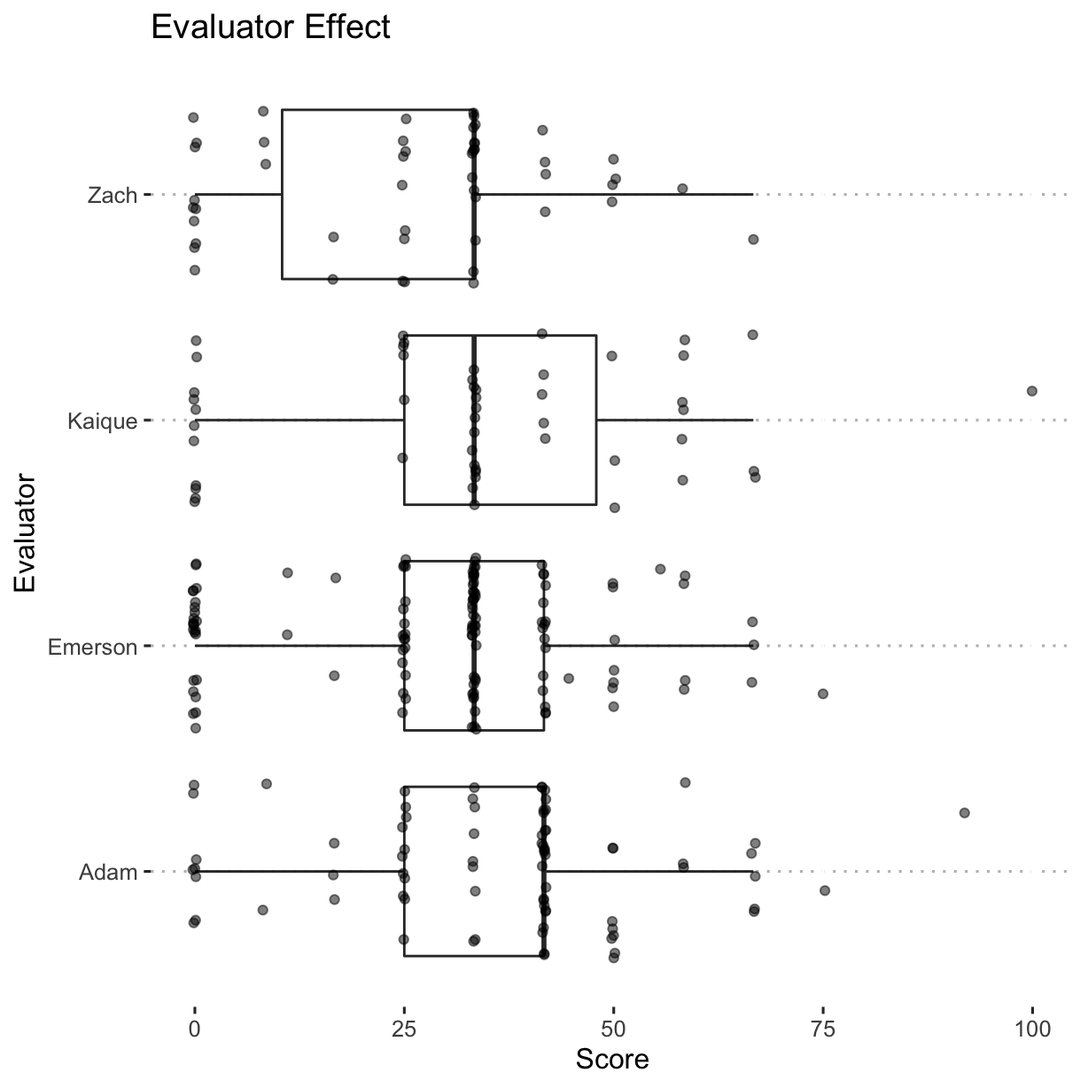
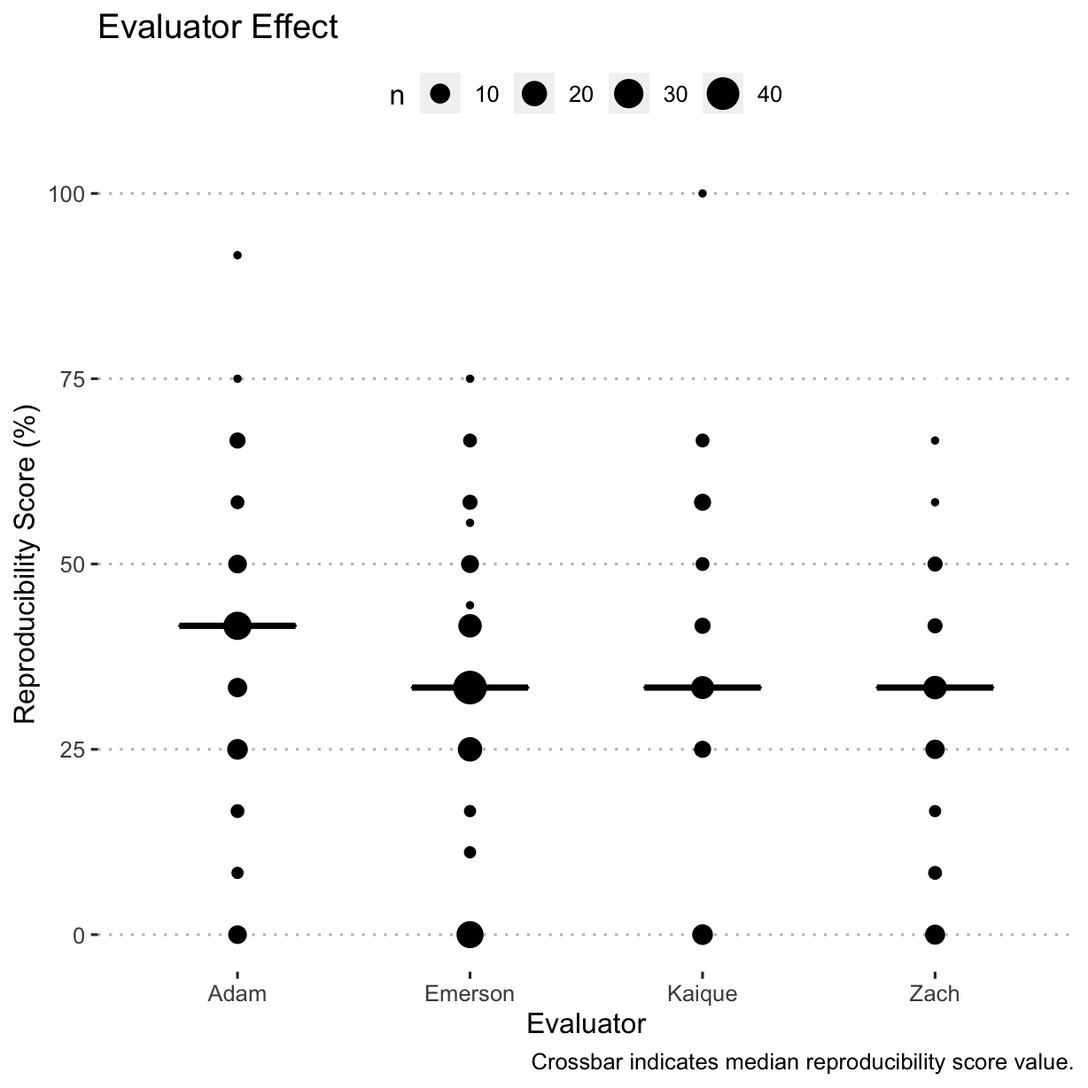
Built site for Reproducibility.in.Plant.Pathology: 0.0.1-1@d06adc3

diff --git a/articles/e_analysis.html b/articles/e_analysis.html
@@ -192,13 +192,20 @@
 <h2 class="hasAnchor">
 <a href="#evaluator-effect-on-reproducibility-score" class="anchor"></a>Evaluator effect on reproducibility score</h2>
 <p>Have a look at whether evaluators had an effect on the scores assigned.</p>
-<div class="sourceCode" id="cb4"><html><body><pre class="r"><span class="fu">ggplot</span>(<span class="no">rrpp</span>, <span class="fu">aes</span>(<span class="kw">x</span> <span class="kw">=</span> <span class="no">reproducibility_score</span>,
-                 <span class="kw">y</span> <span class="kw">=</span> <span class="no">assignee</span>)) +
-  <span class="fu">geom_boxplot</span>(<span class="kw">outlier.shape</span> <span class="kw">=</span> <span class="fl">NA</span>) +
-  <span class="fu">geom_jitter</span>(<span class="kw">width</span> <span class="kw">=</span> <span class="fl">0.25</span>, <span class="kw">alpha</span> <span class="kw">=</span> <span class="fl">0.5</span>) +
+<div class="sourceCode" id="cb4"><html><body><pre class="r"><span class="fu">ggplot</span>(<span class="no">rrpp</span>, <span class="fu">aes</span>(<span class="kw">y</span> <span class="kw">=</span> <span class="no">reproducibility_score</span>,
+                 <span class="kw">x</span> <span class="kw">=</span> <span class="no">assignee</span>)) +
+  <span class="fu">geom_count</span>() +
+  <span class="fu">stat_summary</span>(
+    <span class="kw">fun</span> <span class="kw">=</span> <span class="no">median</span>,
+    <span class="kw">fun.min</span> <span class="kw">=</span> <span class="no">median</span>,
+    <span class="kw">fun.max</span> <span class="kw">=</span> <span class="no">median</span>,
+    <span class="kw">geom</span> <span class="kw">=</span> <span class="st">"crossbar"</span>,
+    <span class="kw">width</span> <span class="kw">=</span> <span class="fl">0.5</span>
+  ) +
   <span class="fu">ggtitle</span>(<span class="st">"Evaluator Effect"</span>) +
-  <span class="fu">ylab</span>(<span class="st">"Evaluator"</span>) +
-  <span class="fu">xlab</span>(<span class="st">"Score"</span>)</pre></body></html></div>
+  <span class="fu">ylab</span>(<span class="st">"Reproducibility Score (%)"</span>) +
+  <span class="fu">xlab</span>(<span class="st">"Evaluator"</span>) +
+  <span class="fu">labs</span>(<span class="kw">caption</span> <span class="kw">=</span> <span class="st">"Crossbar indicates median reproducibility score value."</span>)</pre></body></html></div>
 <p><img src="e_analysis_files/figure-html/unnamed-chunk-3-1.png" width="614.4"></p>
 </div>
 </div>
@@ -223,7 +230,7 @@
   <span class="fu">geom_bar</span>() +
   <span class="fu">ggtitle</span>(<span class="st">"Computational Methods Availability"</span>) +
   <span class="fu">ylab</span>(<span class="st">"Score"</span>) +
-  <span class="fu">labs</span>(<span class="kw">caption</span> <span class="kw">=</span> <span class="st">"NA means that no computational methods were used to generate the data,\ne.g. only PCR results reported with no statistical analsyis"</span>)</pre></body></html></div>
+  <span class="fu">labs</span>(<span class="kw">caption</span> <span class="kw">=</span> <span class="st">"NA means that no computational methods were used to generate the data,\ne.g. only PCR results reported with no statistical analysis"</span>)</pre></body></html></div>
 <p><img src="e_analysis_files/figure-html/unnamed-chunk-5-1.png" width="614.4"></p>
 </div>
 <div id="software-availability" class="section level2">
@@ -259,10 +266,11 @@
   <span class="fu">unnest</span>(<span class="no">software_used</span>) <span class="kw">%&gt;%</span>
   <span class="fu"><a href="https://rdrr.io/pkg/ggpubr/man/reexports.html">mutate</a></span>(<span class="kw">software_used</span> <span class="kw">=</span> <span class="fu"><a href="https://rdrr.io/r/base/trimws.html">trimws</a></span>(<span class="no">software_used</span>)) <span class="kw">%&gt;%</span>
   <span class="fu"><a href="https://rdrr.io/pkg/ggpubr/man/reexports.html">mutate</a></span>(<span class="kw">software_used</span> <span class="kw">=</span> <span class="fu"><a href="https://rdrr.io/r/base/chartr.html">toupper</a></span>(<span class="no">software_used</span>)) <span class="co"># convert all to uppercase to standardise</span></pre></body></html></div>
-<p>Now graph the top ten softwares.</p>
+<p>Now graph the top ten software packages used.</p>
 <div class="sourceCode" id="cb10"><html><body><pre class="r"><span class="no">tab</span> <span class="kw">&lt;-</span> <span class="fu"><a href="https://rdrr.io/r/base/table.html">table</a></span>(<span class="no">rrpp_software</span>$<span class="no">software_used</span>)
 <span class="no">tab_s</span> <span class="kw">&lt;-</span> <span class="fu"><a href="https://rdrr.io/r/base/sort.html">sort</a></span>(<span class="no">tab</span>)
-<span class="no">top10</span> <span class="kw">&lt;-</span> <span class="fu"><a href="https://rdrr.io/r/utils/head.html">tail</a></span>(<span class="fu"><a href="https://rdrr.io/r/base/names.html">names</a></span>(<span class="no">tab_s</span>), <span class="fl">14</span>) <span class="co"># checking the table, there are several ties</span>
+<span class="no">top10</span> <span class="kw">&lt;-</span>
+  <span class="fu"><a href="https://rdrr.io/r/utils/head.html">tail</a></span>(<span class="fu"><a href="https://rdrr.io/r/base/names.html">names</a></span>(<span class="no">tab_s</span>), <span class="fl">14</span>) <span class="co"># checking the table, there are several ties</span>
 <span class="no">top_software</span> <span class="kw">&lt;-</span> <span class="fu"><a href="https://rdrr.io/r/base/subset.html">subset</a></span>(<span class="no">rrpp_software</span>, <span class="no">software_used</span> <span class="kw">%in%</span> <span class="no">top10</span>)
 <span class="no">top_software</span>$<span class="no">software_used</span> <span class="kw">&lt;-</span> <span class="fu"><a href="https://rdrr.io/r/base/factor.html">factor</a></span>(<span class="no">top_software</span>$<span class="no">software_used</span>,
                                      <span class="kw">levels</span> <span class="kw">=</span> <span class="fu"><a href="https://rdrr.io/r/base/rev.html">rev</a></span>(<span class="no">top10</span>))
@@ -288,13 +296,20 @@
 <div id="article-class-effect-on-reproducibility-score" class="section level2">
 <h2 class="hasAnchor">
 <a href="#article-class-effect-on-reproducibility-score" class="anchor"></a>Article class effect on reproducibility score</h2>
-<div class="sourceCode" id="cb12"><html><body><pre class="r"><span class="fu">ggplot</span>(<span class="no">rrpp</span>, <span class="fu">aes</span>(<span class="kw">x</span> <span class="kw">=</span> <span class="no">reproducibility_score</span>,
-                 <span class="kw">y</span> <span class="kw">=</span> <span class="no">art_class</span>)) +
-  <span class="fu">geom_boxplot</span>(<span class="kw">outlier.shape</span> <span class="kw">=</span> <span class="fl">NA</span>) +
-  <span class="fu">geom_jitter</span>(<span class="kw">width</span> <span class="kw">=</span> <span class="fl">0.25</span>, <span class="kw">alpha</span> <span class="kw">=</span> <span class="fl">0.5</span>) +
+<div class="sourceCode" id="cb12"><html><body><pre class="r"><span class="fu">ggplot</span>(<span class="no">rrpp</span>, <span class="fu">aes</span>(<span class="kw">y</span> <span class="kw">=</span> <span class="no">reproducibility_score</span>,
+                 <span class="kw">x</span> <span class="kw">=</span> <span class="no">art_class</span>)) +
+  <span class="fu">geom_count</span>() +
+  <span class="fu">stat_summary</span>(
+    <span class="kw">fun</span> <span class="kw">=</span> <span class="no">median</span>,
+    <span class="kw">fun.min</span> <span class="kw">=</span> <span class="no">median</span>,
+    <span class="kw">fun.max</span> <span class="kw">=</span> <span class="no">median</span>,
+    <span class="kw">geom</span> <span class="kw">=</span> <span class="st">"crossbar"</span>,
+    <span class="kw">width</span> <span class="kw">=</span> <span class="fl">0.5</span>
+  ) +
   <span class="fu">ggtitle</span>(<span class="st">"Article Class Effect"</span>) +
-  <span class="fu">ylab</span>(<span class="st">"Class"</span>) +
-  <span class="fu">xlab</span>(<span class="st">"Score"</span>)</pre></body></html></div>
+  <span class="fu">ylab</span>(<span class="st">"Reproducibility Score (%)"</span>) +
+  <span class="fu">xlab</span>(<span class="st">"Class"</span>) +
+  <span class="fu">labs</span>(<span class="kw">caption</span> <span class="kw">=</span> <span class="st">"Crossbar indicates median reproducibility score value."</span>)</pre></body></html></div>
 <p><img src="e_analysis_files/figure-html/unnamed-chunk-11-1.png" width="614.4"></p>
 </div>
 <div id="journal-effect-on-reproducibility-score" class="section level2">
@@ -311,57 +326,149 @@
 <div id="five-year-impact-factor-effect-on-reproducibility-score" class="section level2">
 <h2 class="hasAnchor">
 <a href="#five-year-impact-factor-effect-on-reproducibility-score" class="anchor"></a>Five year impact factor effect on reproducibility score</h2>
-<div class="sourceCode" id="cb14"><html><body><pre class="r"><span class="fu">ggplot</span>(<span class="no">rrpp</span>, <span class="fu">aes</span>(<span class="kw">x</span> <span class="kw">=</span> <span class="no">reproducibility_score</span>,
-                 <span class="kw">y</span> <span class="kw">=</span> <span class="no">IF_5year</span>)) +
+<div class="sourceCode" id="cb14"><html><body><pre class="r"><span class="fu">ggplot</span>(<span class="no">rrpp</span>, <span class="fu">aes</span>(<span class="kw">y</span> <span class="kw">=</span> <span class="no">reproducibility_score</span>,
+                 <span class="kw">x</span> <span class="kw">=</span> <span class="no">IF_5year</span>)) +
   <span class="fu">geom_count</span>() +
+  <span class="fu">geom_smooth</span>() +
   <span class="fu">ggtitle</span>(<span class="st">"Five Year IF Effect"</span>) +
-  <span class="fu">ylab</span>(<span class="st">"Impact Factor"</span>) +
-  <span class="fu">xlab</span>(<span class="st">"Score"</span>)</pre></body></html></div>
+  <span class="fu">ylab</span>(<span class="st">"Score"</span>) +
+  <span class="fu">xlab</span>(<span class="st">"Impact Factor"</span>)</pre></body></html></div>
 <p><img src="e_analysis_files/figure-html/unnamed-chunk-13-1.png" width="614.4"></p>
 </div>
 <div id="journal-open-access-effect-on-reproducibility-score" class="section level2">
 <h2 class="hasAnchor">
 <a href="#journal-open-access-effect-on-reproducibility-score" class="anchor"></a>Journal open access effect on reproducibility score</h2>
-<div class="sourceCode" id="cb15"><html><body><pre class="r"><span class="fu">ggplot</span>(<span class="no">rrpp</span>, <span class="fu">aes</span>(<span class="kw">x</span> <span class="kw">=</span> <span class="no">reproducibility_score</span>,
-                 <span class="kw">y</span> <span class="kw">=</span> <span class="fu"><a href="https://rdrr.io/r/base/factor.html">as.factor</a></span>(<span class="no">open</span>))) +
-  <span class="fu">geom_boxplot</span>(<span class="kw">outlier.shape</span> <span class="kw">=</span> <span class="fl">NA</span>) +
-  <span class="fu">geom_jitter</span>(<span class="kw">width</span> <span class="kw">=</span> <span class="fl">0.25</span>, <span class="kw">alpha</span> <span class="kw">=</span> <span class="fl">0.5</span>) +
-  <span class="fu">ggtitle</span>(<span class="st">"Open Access Effect"</span>) +
-  <span class="fu">ylab</span>(<span class="st">"Open Access Classification"</span>) +
-  <span class="fu">xlab</span>(<span class="st">"Score"</span>)</pre></body></html></div>
+<div class="sourceCode" id="cb15"><html><body><pre class="r"><span class="fu">ggplot</span>(<span class="no">rrpp</span>, <span class="fu">aes</span>(<span class="kw">y</span> <span class="kw">=</span> <span class="no">reproducibility_score</span>,
+                 <span class="kw">x</span> <span class="kw">=</span> <span class="fu"><a href="https://rdrr.io/r/base/factor.html">as.factor</a></span>(<span class="no">open</span>))) +
+  <span class="fu">geom_count</span>() +
+  <span class="fu">stat_summary</span>(
+    <span class="kw">fun</span> <span class="kw">=</span> <span class="no">median</span>,
+    <span class="kw">fun.min</span> <span class="kw">=</span> <span class="no">median</span>,
+    <span class="kw">fun.max</span> <span class="kw">=</span> <span class="no">median</span>,
+    <span class="kw">geom</span> <span class="kw">=</span> <span class="st">"crossbar"</span>,
+    <span class="kw">width</span> <span class="kw">=</span> <span class="fl">0.5</span>
+  ) +
+  <span class="fu">ggtitle</span>(<span class="st">"Journal Open Access Classification Effect"</span>) +
+  <span class="fu">ylab</span>(<span class="st">"Score"</span>) +
+  <span class="fu">xlab</span>(<span class="st">"Open Access Classification"</span>) +
+  <span class="fu">labs</span>(<span class="kw">caption</span> <span class="kw">=</span> <span class="st">"Crossbar indicates median score value."</span>)</pre></body></html></div>
 <p><img src="e_analysis_files/figure-html/unnamed-chunk-14-1.png" width="614.4"></p>
 </div>
 <div id="journal-reproducibility-instructions-effect-on-reproducibility-score" class="section level2">
 <h2 class="hasAnchor">
 <a href="#journal-reproducibility-instructions-effect-on-reproducibility-score" class="anchor"></a>Journal reproducibility instructions effect on reproducibility score</h2>
-<div class="sourceCode" id="cb16"><html><body><pre class="r"><span class="fu">ggplot</span>(<span class="no">rrpp</span>, <span class="fu">aes</span>(<span class="kw">x</span> <span class="kw">=</span> <span class="no">reproducibility_score</span>,
-                 <span class="kw">y</span> <span class="kw">=</span> <span class="fu"><a href="https://rdrr.io/r/base/factor.html">as.factor</a></span>(<span class="no">repro_inst</span>))) +
-  <span class="fu">geom_boxplot</span>(<span class="kw">outlier.shape</span> <span class="kw">=</span> <span class="fl">NA</span>) +
-  <span class="fu">geom_jitter</span>(<span class="kw">width</span> <span class="kw">=</span> <span class="fl">0.25</span>, <span class="kw">alpha</span> <span class="kw">=</span> <span class="fl">0.5</span>) +
+<div class="sourceCode" id="cb16"><html><body><pre class="r"><span class="fu">ggplot</span>(<span class="no">rrpp</span>, <span class="fu">aes</span>(<span class="kw">y</span> <span class="kw">=</span> <span class="no">reproducibility_score</span>,
+                 <span class="kw">x</span> <span class="kw">=</span> <span class="fu"><a href="https://rdrr.io/r/base/factor.html">as.factor</a></span>(<span class="no">repro_inst</span>))) +
+  <span class="fu">geom_count</span>() +
+  <span class="fu">stat_summary</span>(
+    <span class="kw">fun</span> <span class="kw">=</span> <span class="no">median</span>,
+    <span class="kw">fun.min</span> <span class="kw">=</span> <span class="no">median</span>,
+    <span class="kw">fun.max</span> <span class="kw">=</span> <span class="no">median</span>,
+    <span class="kw">geom</span> <span class="kw">=</span> <span class="st">"crossbar"</span>,
+    <span class="kw">width</span> <span class="kw">=</span> <span class="fl">0.5</span>
+  ) +
   <span class="fu">ggtitle</span>(<span class="st">"Reproducibility Instructions Effect"</span>) +
-  <span class="fu">ylab</span>(<span class="st">"Reproducibility Instructions Score"</span>) +
-  <span class="fu">xlab</span>(<span class="st">"Score"</span>)</pre></body></html></div>
+  <span class="fu">ylab</span>(<span class="st">"Reproducibility Score (%)"</span>) +
+  <span class="fu">xlab</span>(<span class="st">"Reproducibility Instructions Score"</span>) +
+  <span class="fu">labs</span>(<span class="kw">caption</span> <span class="kw">=</span> <span class="st">"Crossbar indicates median score value."</span>)</pre></body></html></div>
 <p><img src="e_analysis_files/figure-html/unnamed-chunk-15-1.png" width="614.4"></p>
 </div>
-<div id="reproducibility-score-by-year" class="section level2">
+<div id="scores-by-year" class="section level2">
 <h2 class="hasAnchor">
-<a href="#reproducibility-score-by-year" class="anchor"></a>Reproducibility score by year</h2>
-<div class="sourceCode" id="cb17"><html><body><pre class="r"><span class="fu">ggplot</span>(<span class="no">rrpp</span>, <span class="fu">aes</span>(<span class="kw">x</span> <span class="kw">=</span> <span class="no">reproducibility_score</span>,
-                 <span class="kw">y</span> <span class="kw">=</span> <span class="fu"><a href="https://rdrr.io/r/base/factor.html">as.factor</a></span>(<span class="no">year</span>))) +
-  <span class="fu">geom_boxplot</span>(<span class="kw">outlier.shape</span> <span class="kw">=</span> <span class="fl">NA</span>) +
-  <span class="fu">geom_jitter</span>(<span class="kw">width</span> <span class="kw">=</span> <span class="fl">0.25</span>, <span class="kw">alpha</span> <span class="kw">=</span> <span class="fl">0.5</span>) +
-  <span class="fu">ggtitle</span>(<span class="st">"Reproducibility Score by Year"</span>) +
-  <span class="fu">ylab</span>(<span class="st">"Score (%)"</span>) +
-  <span class="fu">xlab</span>(<span class="st">"Year"</span>)</pre></body></html></div>
+<a href="#scores-by-year" class="anchor"></a>Scores by year</h2>
+</div>
+<div id="full-reproducibility-score" class="section level2">
+<h2 class="hasAnchor">
+<a href="#full-reproducibility-score" class="anchor"></a>Full reproducibility score</h2>
+<div class="sourceCode" id="cb17"><html><body><pre class="r"><span class="fu">ggplot</span>(<span class="no">rrpp</span>, <span class="fu">aes</span>(<span class="kw">y</span> <span class="kw">=</span> <span class="no">reproducibility_score</span>,
+                 <span class="kw">x</span> <span class="kw">=</span> <span class="no">year</span>)) +
+  <span class="fu">geom_count</span>() +
+  <span class="fu">geom_smooth</span>() +
+  <span class="fu">stat_summary</span>(
+    <span class="kw">fun</span> <span class="kw">=</span> <span class="no">median</span>,
+    <span class="kw">fun.min</span> <span class="kw">=</span> <span class="no">median</span>,
+    <span class="kw">fun.max</span> <span class="kw">=</span> <span class="no">median</span>,
+    <span class="kw">geom</span> <span class="kw">=</span> <span class="st">"crossbar"</span>,
+    <span class="kw">width</span> <span class="kw">=</span> <span class="fl">0.5</span>
+  ) +
+  <span class="fu">ylab</span>(<span class="st">"Reproducibility Score (%)"</span>) +
+  <span class="fu">xlab</span>(<span class="st">"Year"</span>) +
+  <span class="fu">labs</span>(<span class="kw">caption</span> <span class="kw">=</span> <span class="st">"Crossbar indicates median score value."</span>)</pre></body></html></div>
 <p><img src="e_analysis_files/figure-html/unnamed-chunk-16-1.png" width="614.4"></p>
+</div>
+<div id="computational-methods-score" class="section level2">
+<h2 class="hasAnchor">
+<a href="#computational-methods-score" class="anchor"></a>Computational methods score</h2>
+<div class="sourceCode" id="cb18"><html><body><pre class="r"><span class="fu">ggplot</span>(<span class="no">rrpp</span>, <span class="fu">aes</span>(<span class="kw">y</span> <span class="kw">=</span> <span class="no">comp_mthds_avail</span>,
+                 <span class="kw">x</span> <span class="kw">=</span> <span class="no">year</span>)) +
+  <span class="fu">geom_count</span>() +
+  <span class="fu">geom_smooth</span>() +
+  <span class="fu">stat_summary</span>(
+    <span class="kw">fun</span> <span class="kw">=</span> <span class="no">median</span>,
+    <span class="kw">fun.min</span> <span class="kw">=</span> <span class="no">median</span>,
+    <span class="kw">fun.max</span> <span class="kw">=</span> <span class="no">median</span>,
+    <span class="kw">geom</span> <span class="kw">=</span> <span class="st">"crossbar"</span>,
+    <span class="kw">width</span> <span class="kw">=</span> <span class="fl">0.5</span>
+  ) +
+  <span class="fu">ylab</span>(<span class="st">"Computational Methods Availability"</span>) +
+  <span class="fu">xlab</span>(<span class="st">"Year"</span>) +
+  <span class="fu">labs</span>(<span class="kw">caption</span> <span class="kw">=</span> <span class="st">"Crossbar indicates median score value."</span>)
+<span class="co">#&gt; Warning: Removed 10 rows containing non-finite values (stat_sum).</span>
+<span class="co">#&gt; Warning: Removed 10 rows containing non-finite values (stat_smooth).</span>
+<span class="co">#&gt; Warning: Removed 10 rows containing non-finite values (stat_summary).</span></pre></body></html></div>
+<p><img src="e_analysis_files/figure-html/unnamed-chunk-17-1.png" width="614.4"></p>
+</div>
+<div id="software-availability-1" class="section level2">
+<h2 class="hasAnchor">
+<a href="#software-availability-1" class="anchor"></a>Software availability</h2>
+<div class="sourceCode" id="cb19"><html><body><pre class="r"><span class="fu">ggplot</span>(<span class="no">rrpp</span>, <span class="fu">aes</span>(<span class="kw">y</span> <span class="kw">=</span> <span class="no">software_avail</span>,
+                 <span class="kw">x</span> <span class="kw">=</span> <span class="no">year</span>)) +
+  <span class="fu">geom_count</span>() +
+  <span class="fu">geom_smooth</span>() +
+  <span class="fu">stat_summary</span>(
+    <span class="kw">fun</span> <span class="kw">=</span> <span class="no">median</span>,
+    <span class="kw">fun.min</span> <span class="kw">=</span> <span class="no">median</span>,
+    <span class="kw">fun.max</span> <span class="kw">=</span> <span class="no">median</span>,
+    <span class="kw">geom</span> <span class="kw">=</span> <span class="st">"crossbar"</span>,
+    <span class="kw">width</span> <span class="kw">=</span> <span class="fl">0.5</span>
+  ) +
+  <span class="fu">ylab</span>(<span class="st">"Software Availability"</span>) +
+  <span class="fu">xlab</span>(<span class="st">"Year"</span>) +
+  <span class="fu">labs</span>(<span class="kw">caption</span> <span class="kw">=</span> <span class="st">"Crossbar indicates median score value."</span>)
+<span class="co">#&gt; Warning: Removed 10 rows containing non-finite values (stat_sum).</span>
+<span class="co">#&gt; Warning: Removed 10 rows containing non-finite values (stat_smooth).</span>
+<span class="co">#&gt; Warning: Removed 10 rows containing non-finite values (stat_summary).</span></pre></body></html></div>
+<p><img src="e_analysis_files/figure-html/unnamed-chunk-18-1.png" width="614.4"></p>
+</div>
+<div id="data-availability-1" class="section level2">
+<h2 class="hasAnchor">
+<a href="#data-availability-1" class="anchor"></a>Data availability</h2>
+<div class="sourceCode" id="cb20"><html><body><pre class="r"><span class="fu">ggplot</span>(<span class="no">rrpp</span>, <span class="fu">aes</span>(<span class="kw">y</span> <span class="kw">=</span> <span class="no">data_avail</span>,
+                 <span class="kw">x</span> <span class="kw">=</span> <span class="no">year</span>)) +
+  <span class="fu">geom_count</span>() +
+  <span class="fu">geom_smooth</span>() +
+  <span class="fu">stat_summary</span>(
+    <span class="kw">fun</span> <span class="kw">=</span> <span class="no">median</span>,
+    <span class="kw">fun.min</span> <span class="kw">=</span> <span class="no">median</span>,
+    <span class="kw">fun.max</span> <span class="kw">=</span> <span class="no">median</span>,
+    <span class="kw">geom</span> <span class="kw">=</span> <span class="st">"crossbar"</span>,
+    <span class="kw">width</span> <span class="kw">=</span> <span class="fl">0.5</span>
+  ) +
+  <span class="fu">ylab</span>(<span class="st">"Data Availability"</span>) +
+  <span class="fu">xlab</span>(<span class="st">"Year"</span>) +
+  <span class="fu">labs</span>(<span class="kw">caption</span> <span class="kw">=</span> <span class="st">"Crossbar indicates median score value."</span>)
+<span class="co">#&gt; Warning: Removed 2 rows containing non-finite values (stat_sum).</span>
+<span class="co">#&gt; Warning: Removed 2 rows containing non-finite values (stat_smooth).</span>
+<span class="co">#&gt; Warning: Removed 2 rows containing non-finite values (stat_summary).</span></pre></body></html></div>
+<p><img src="e_analysis_files/figure-html/unnamed-chunk-19-1.png" width="614.4"></p>
 </div>
 <div id="tables" class="section level2">
 <h2 class="hasAnchor">
 <a href="#tables" class="anchor"></a>Tables</h2>
 <div id="table-of-journals-surveyed" class="section level3">
 <h3 class="hasAnchor">
-<a href="#table-of-journals-surveyed" class="anchor"></a>Table of Journals Surveyed</h3>
-<div class="sourceCode" id="cb18"><html><body><pre class="r"><span class="no">rrpp_journals</span> <span class="kw">&lt;-</span> <span class="fu"><a href="https://rdrr.io/pkg/janitor/man/tabyl.html">tabyl</a></span>(<span class="no">rrpp</span>, <span class="no">journal</span>)[, -<span class="fl">3</span>]
+<a href="#table-of-journals-surveyed" class="anchor"></a>Table of journals surveyed</h3>
+<div class="sourceCode" id="cb21"><html><body><pre class="r"><span class="no">rrpp_journals</span> <span class="kw">&lt;-</span> <span class="fu"><a href="https://rdrr.io/pkg/janitor/man/tabyl.html">tabyl</a></span>(<span class="no">rrpp</span>, <span class="no">journal</span>)[, -<span class="fl">3</span>]
 <span class="fu"><a href="https://rdrr.io/r/base/names.html">names</a></span>(<span class="no">rrpp_journals</span>) <span class="kw">&lt;-</span> <span class="fu"><a href="https://rdrr.io/r/base/c.html">c</a></span>(<span class="st">"Journal"</span>, <span class="st">"n"</span>)
 <span class="fu"><a href="https://rdrr.io/pkg/pander/man/pander.html">pander</a></span>(<span class="no">rrpp_journals</span>)</pre></body></html></div>
 <table class="table">
@@ -463,8 +570,8 @@
 </div>
 <div id="table-of-article-scores" class="section level3">
 <h3 class="hasAnchor">
-<a href="#table-of-article-scores" class="anchor"></a>Table of Article Scores</h3>
-<div class="sourceCode" id="cb19"><html><body><pre class="r"><span class="no">article_scores</span> <span class="kw">&lt;-</span> <span class="fu"><a href="https://rdrr.io/pkg/janitor/man/tabyl.html">tabyl</a></span>(<span class="no">rrpp</span>, <span class="no">reproducibility_score</span>)
+<a href="#table-of-article-scores" class="anchor"></a>Table of article scores</h3>
+<div class="sourceCode" id="cb22"><html><body><pre class="r"><span class="no">article_scores</span> <span class="kw">&lt;-</span> <span class="fu"><a href="https://rdrr.io/pkg/janitor/man/tabyl.html">tabyl</a></span>(<span class="no">rrpp</span>, <span class="no">reproducibility_score</span>)
 <span class="fu"><a href="https://rdrr.io/r/base/names.html">names</a></span>(<span class="no">article_scores</span>) <span class="kw">&lt;-</span> <span class="fu"><a href="https://rdrr.io/r/base/c.html">c</a></span>(<span class="st">"Score"</span>, <span class="st">"n"</span>, <span class="st">"Percent"</span>)
 <span class="no">article_scores</span>$<span class="no">Percent</span> <span class="kw">&lt;-</span> <span class="fu"><a href="https://rdrr.io/r/base/Round.html">round</a></span>(<span class="no">article_scores</span>$<span class="no">Percent</span> * <span class="fl">100</span>, <span class="fl">1</span>)
 <span class="fu"><a href="https://rdrr.io/pkg/pander/man/pander.html">pander</a></span>(<span class="no">article_scores</span>)</pre></body></html></div>

diff --git a/reference/workflow_dia.html b/reference/workflow_dia.html
@@ -699,7 +699,7 @@
 #&gt; [13033] 28 63 61 69 72 6f 20 31 2e 31 36 2e 30 20 28 68 74 74 70 73 3a 2f 2f 63
 #&gt; [13057] 61 69 72 6f 67 72 61 70 68 69 63 73 2e 6f 72 67 29 29 0a 20 20 20 2f 43
 #&gt; [13081] 72 65 61 74 69 6f 6e 44 61 74 65 20 28 44 3a 32 30 32 30 30 35 30 31 30
-#&gt; [13105] 31 34 31 33 34 5a 29 0a 3e 3e 0a 65 6e 64 6f 62 6a 0a 32 32 20 30 20 6f
+#&gt; [13105] 36 35 32 35 37 5a 29 0a 3e 3e 0a 65 6e 64 6f 62 6a 0a 32 32 20 30 20 6f
 #&gt; [13129] 62 6a 0a 3c 3c 20 2f 54 79 70 65 20 2f 43 61 74 61 6c 6f 67 0a 20 20 20
 #&gt; [13153] 2f 50 61 67 65 73 20 31 20 30 20 52 0a 3e 3e 0a 65 6e 64 6f 62 6a 0a 78
 #&gt; [13177] 72 65 66 0a 30 20 32 33 0a 30 30 30 30 30 30 30 30 30 30 20 36 35 35 33
